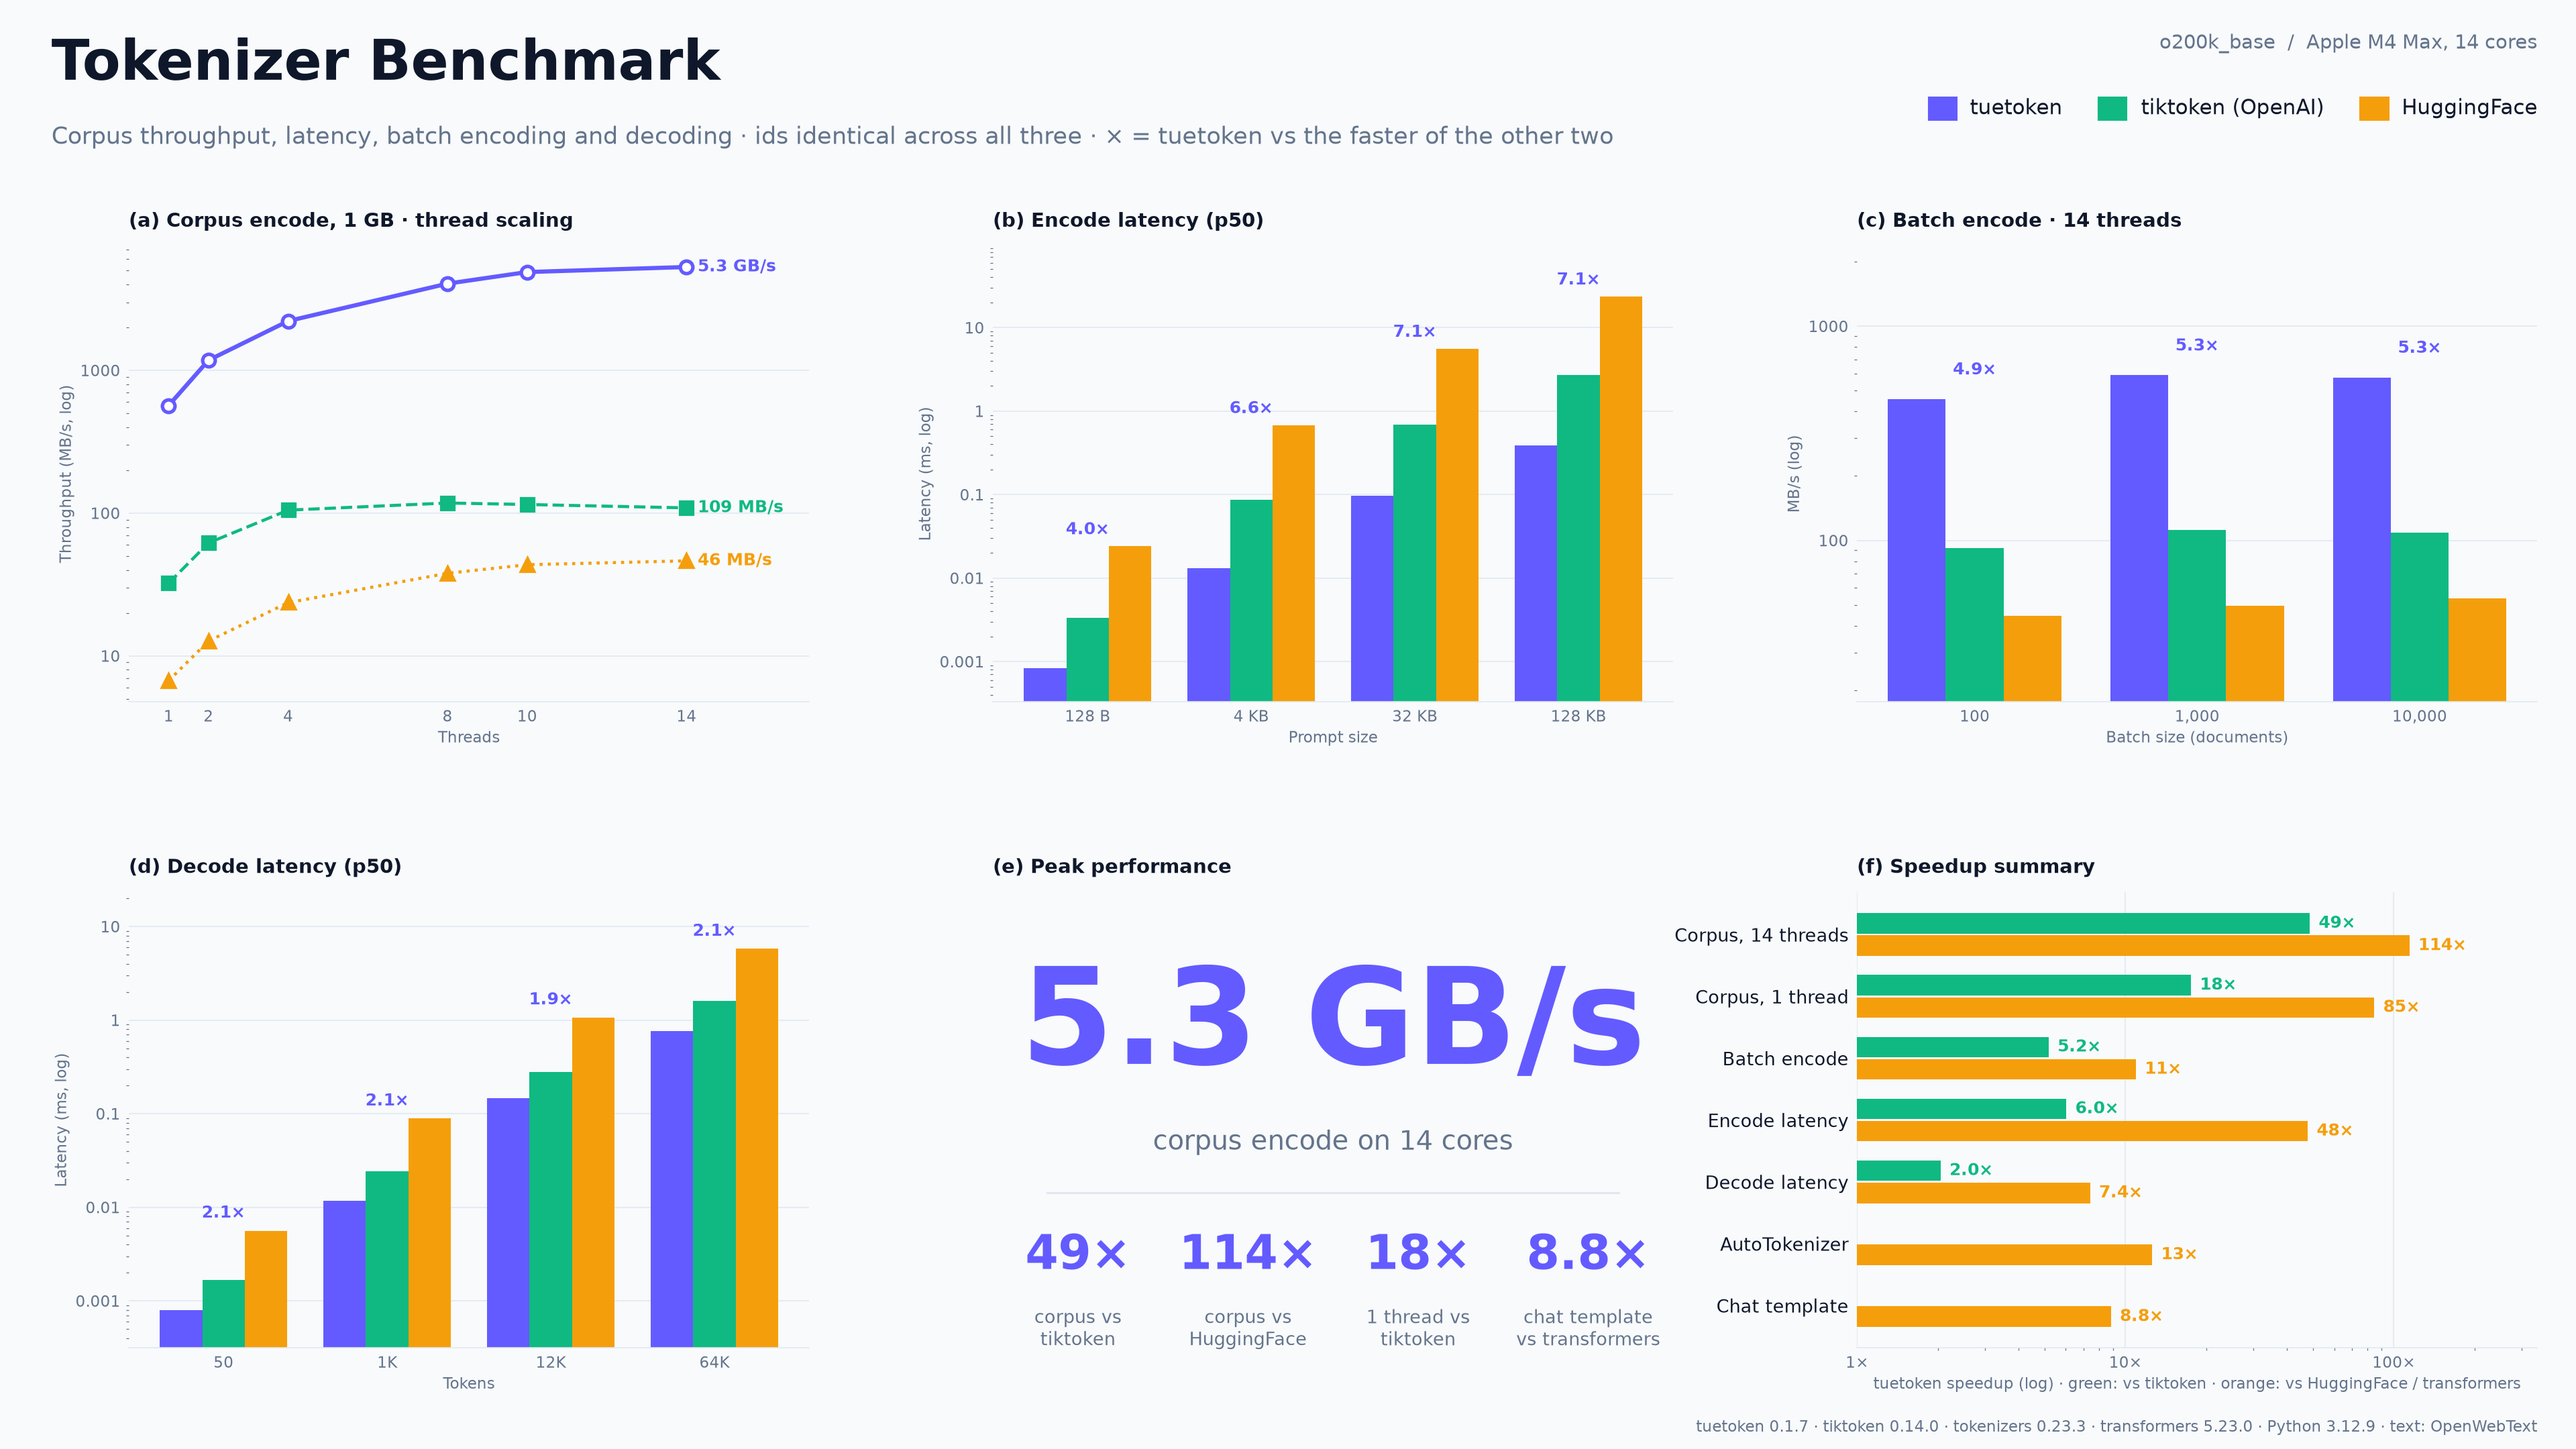
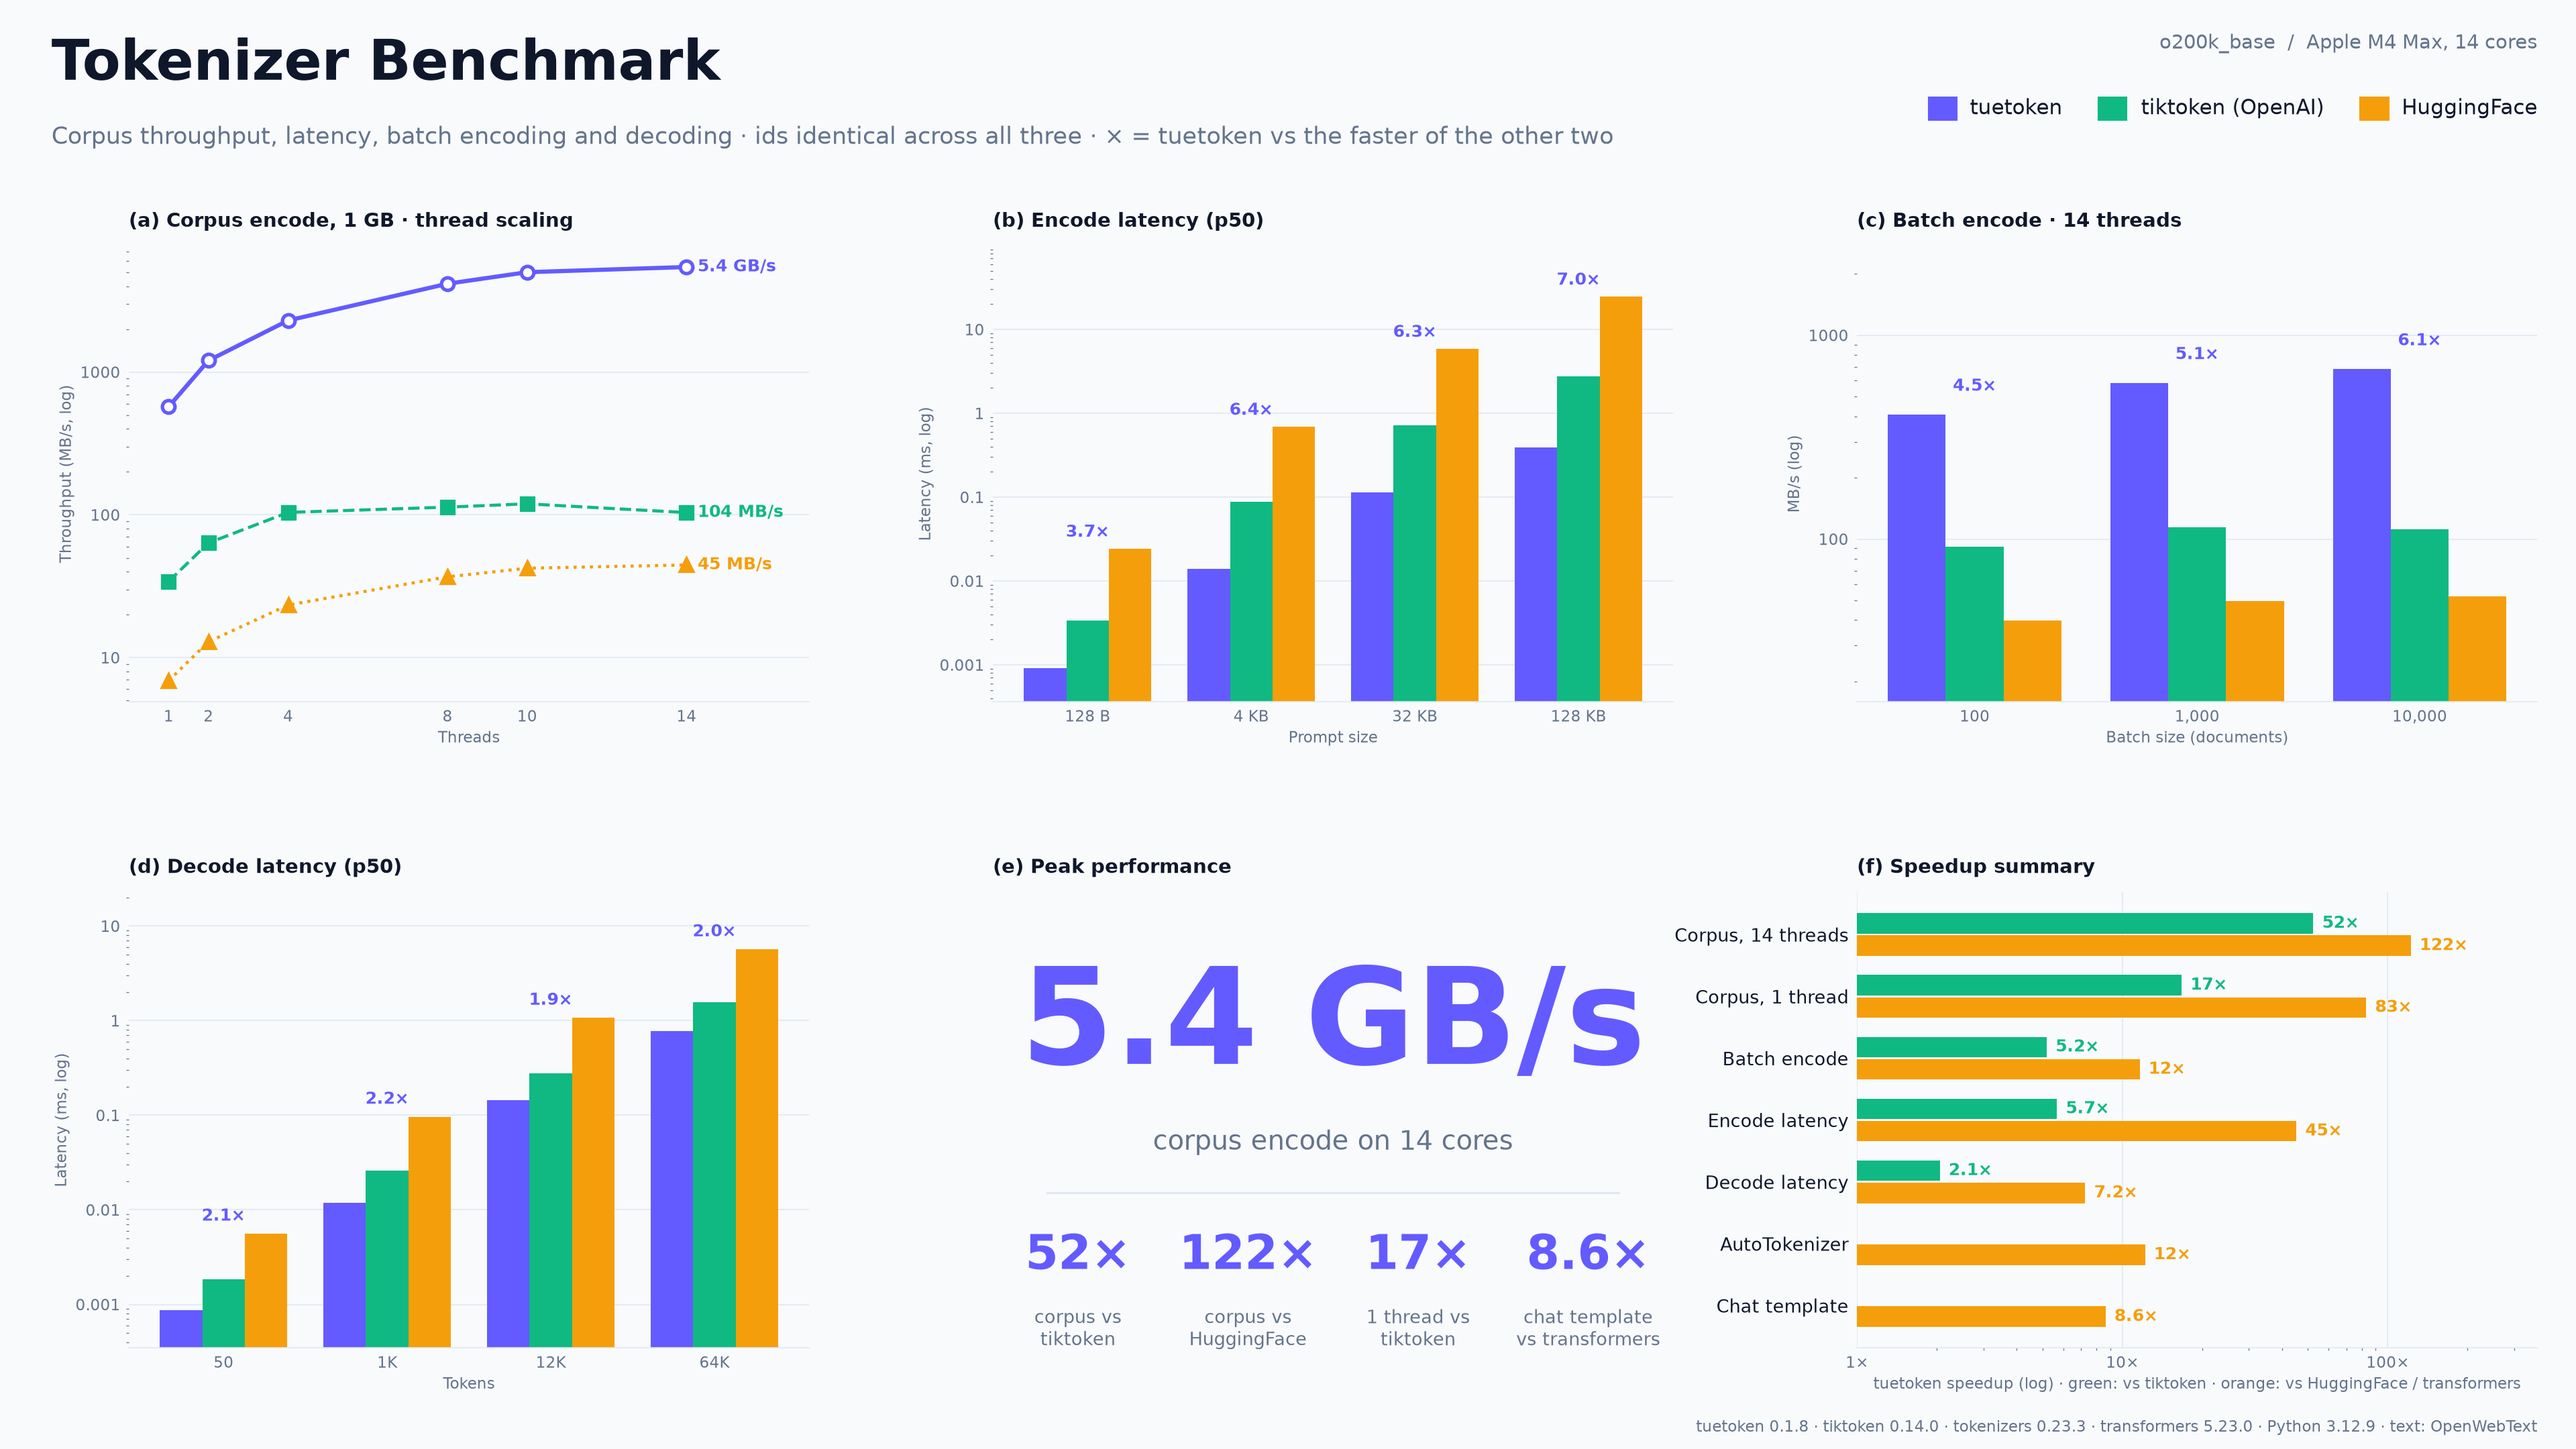
release: 0.1.8
Re-measured README figure and speedup table with 0.1.8 (o200k_base, Apple
M4 Max, 14 cores); new row for a corpus passed as a list[str] of documents;
note on the parallel str conversion.

diff --git a/tools/bench/bench.py b/tools/bench/bench.py
@@ -82,6 +82,15 @@ def worker(lib, threads, path, nbytes):
         out = enc.encode_ordinary_to_buffer([raw], num_threads=threads, separator=SEP)
         dt = time.perf_counter() - t
         ntok = len(out["data"])
+    elif lib == "tuetoken_str":
+        # the same documents as a list of str (decoded before timing, like the others)
+        import tuetoken
+        enc = tuetoken.Tokenizer.from_tiktoken("o200k_base")
+        docs = [d.decode("utf-8") for d in raw.split(SEP)]
+        t = time.perf_counter()
+        out = enc.encode_ordinary_to_buffer(docs, num_threads=threads)
+        dt = time.perf_counter() - t
+        ntok = len(out["data"])
     else:
         # The others take a list of str; splitting and decoding are not timed.
         docs = [d.decode("utf-8") for d in raw.split(SEP)]
@@ -105,11 +114,11 @@ def worker(lib, threads, path, nbytes):
 
 def corpus_scaling(path, nbytes, thread_list, repeats):
     res = {}
-    for lib in ("tuetoken", "tiktoken", "hf"):
+    for lib in ("tuetoken", "tiktoken", "hf", "tuetoken_str"):
         res[lib] = []
-        for n in thread_list:
+        for n in (thread_list if lib != "tuetoken_str" else thread_list[-1:]):
             runs = []
-            for _ in range(repeats if lib == "tuetoken" else 1):
+            for _ in range(repeats if lib.startswith("tuetoken") else 1):
                 p = subprocess.run([sys.executable, __file__, "--worker", lib, str(n), path, str(nbytes)],
                                    capture_output=True, text=True, check=True)
                 runs.append(json.loads(p.stdout.strip().splitlines()[-1]))

diff --git a/README.md b/README.md
@@ -1,11 +1,11 @@
 # tuetoken
 
-**The fastest tokenizer for modern LLMs: 5.3 GB/s, up to 49x faster than tiktoken and 114x faster than 🤗 tokenizers.**
+**The fastest tokenizer for modern LLMs: 5.4 GB/s, up to 52x faster than tiktoken and 122x faster than 🤗 tokenizers.**
 
 tuetoken is a BPE tokenizer with a fast, safe Rust core. It is a drop-in replacement
 for 🤗 `transformers.AutoTokenizer`: it loads any model's own `tokenizer.json` and
 reproduces tokenization exactly (special tokens, chat templates, padding/truncation),
-up to 13x faster (8.8x on chat templates). It also loads OpenAI/tiktoken encodings natively, and
+up to 12x faster (8.6x on chat templates). It also loads OpenAI/tiktoken encodings natively, and
 its O(n) merger stays fast even on adversarial inputs (hashes, base64, minified code)
 where other tokenizers degrade to O(n²).
 
@@ -39,17 +39,22 @@ maturin develop --release
 
 | tuetoken speedup (o200k_base, Apple M4 Max, 14 cores) | vs tiktoken | vs 🤗 tokenizers / transformers |
 |---|---|---|
-| Corpus encode, 1 GB, all cores (5.3 GB/s) | **49x** | **114x** |
-| Corpus encode, 1 thread (567 MB/s) | 18x | 85x |
-| Single prompt, 128 B to 128 KB (p50) | 4-7x | 29-61x |
-| Batch of documents to `list[list[int]]` | 5x | 11x |
+| Corpus encode, 1 GB `bytes`, all cores (5.4 GB/s) | **52x** | **122x** |
+| Corpus as a `list[str]` of documents, all cores (3.4 GB/s) | **33x** | **77x** |
+| Corpus encode, 1 thread (572 MB/s) | 17x | 83x |
+| Single prompt, 128 B to 128 KB (p50) | 4-7x | 26-63x |
+| Batch of documents to `list[list[int]]` | 5-6x | 10-13x |
 | Decode (p50) | 2x | 7x |
-| `AutoTokenizer`: `tok(texts)` / chat template | | 13x / 8.8x |
+| `AutoTokenizer`: `tok(texts)` / chat template | | 12x / 8.6x |
 
 Token ids are identical across all three libraries. Every number uses text the
 tokenizer has not seen before, and corpus runs start a fresh process (no warm
 caches). Reproduce with `python tools/bench/bench.py corpus.txt && python tools/bench/plot.py`
 (raw numbers in `tools/bench/results.json`).
+
+New in 0.1.8: a batch of non-ASCII `str` (most real text) is converted to UTF-8 on all
+cores instead of by Python on one thread, so lists of strings are 2-2.5x faster than in
+0.1.7 (1 GB of OpenWebText documents in one call: 1.7 -> 4.1 GB/s), with identical output.
 
 ## Drop-in `AutoTokenizer`
 
@@ -75,7 +80,7 @@ This matches `transformers.AutoTokenizer` token-for-token across byte-level mode
 ## OpenAI / tiktoken encodings
 
 tuetoken loads OpenAI's encodings natively, with no `tiktoken` dependency, and is
-faster than tiktoken itself: 4-7x on a single prompt and up to 49x on a whole corpus:
+faster than tiktoken itself: 4-7x on a single prompt and up to 52x on a whole corpus:
 
 ```python
 from tuetoken import Tokenizer
